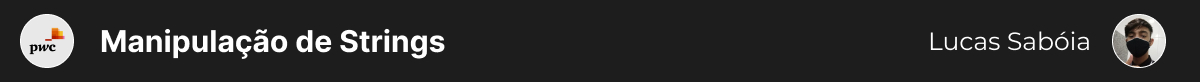
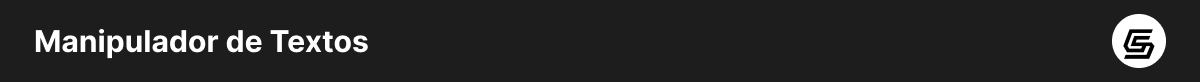
(feat): adicionado novo design para a página home/navbar e redirecionamento para versão web

Changed region(s): [[0.0, 0.1707, 0.37, 0.8293], [0.7708, 0.1707, 0.9867, 0.8293]]

diff --git a/ManipulaStringPWC/Formularios/frmHome.Designer.cs b/ManipulaStringPWC/Formularios/frmHome.Designer.cs
@@ -30,8 +30,10 @@
         {
             pictureBox1 = new PictureBox();
             pictureBox2 = new PictureBox();
+            pictureBox3 = new PictureBox();
             ((System.ComponentModel.ISupportInitialize)pictureBox1).BeginInit();
             ((System.ComponentModel.ISupportInitialize)pictureBox2).BeginInit();
+            ((System.ComponentModel.ISupportInitialize)pictureBox3).BeginInit();
             SuspendLayout();
             // 
             // pictureBox1
@@ -54,11 +56,22 @@
             pictureBox2.TabIndex = 1;
             pictureBox2.TabStop = false;
             // 
+            // pictureBox3
+            // 
+            pictureBox3.Image = Properties.Resources.web;
+            pictureBox3.Location = new Point(529, 301);
+            pictureBox3.Name = "pictureBox3";
+            pictureBox3.Size = new Size(52, 28);
+            pictureBox3.TabIndex = 2;
+            pictureBox3.TabStop = false;
+            pictureBox3.Click += pictureBox3_Click;
+            // 
             // frmHome
             // 
             AutoScaleDimensions = new SizeF(7F, 15F);
             AutoScaleMode = AutoScaleMode.Font;
             ClientSize = new Size(1224, 369);
+            Controls.Add(pictureBox3);
             Controls.Add(pictureBox2);
             Controls.Add(pictureBox1);
             FormBorderStyle = FormBorderStyle.None;
@@ -66,6 +79,7 @@
             Text = "frmHome";
             ((System.ComponentModel.ISupportInitialize)pictureBox1).EndInit();
             ((System.ComponentModel.ISupportInitialize)pictureBox2).EndInit();
+            ((System.ComponentModel.ISupportInitialize)pictureBox3).EndInit();
             ResumeLayout(false);
         }
 
@@ -73,5 +87,6 @@
 
         private PictureBox pictureBox1;
         private PictureBox pictureBox2;
+        private PictureBox pictureBox3;
     }
 }

diff --git a/ManipulaStringPWC/Formularios/frmHome.cs b/ManipulaStringPWC/Formularios/frmHome.cs
@@ -1,10 +1,23 @@
-namespace ManipulaStringPWC.Formularios
+using System.Diagnostics;
+
+namespace ManipulaStringPWC.Formularios
 {
     public partial class frmHome : Form
     {
         public frmHome()
         {
             InitializeComponent();
+        }
+
+        private void pictureBox3_Click(object sender, EventArgs e)
+        {
+            string urlDestino = "https://github.com/lucassaboia/ManipulaStringPWC";
+            ProcessStartInfo link = new()
+            {
+                FileName = urlDestino,
+                UseShellExecute = true
+            };
+            Process.Start(link);
         }
     }
 }

diff --git a/ManipulaStringPWC/Properties/Resources.Designer.cs b/ManipulaStringPWC/Properties/Resources.Designer.cs
@@ -329,5 +329,15 @@ namespace ManipulaStringPWC.Properties {
                 return ((System.Drawing.Bitmap)(obj));
             }
         }
+        
+        /// <summary>
+        ///   Looks up a localized resource of type System.Drawing.Bitmap.
+        /// </summary>
+        internal static System.Drawing.Bitmap web {
+            get {
+                object obj = ResourceManager.GetObject("web", resourceCulture);
+                return ((System.Drawing.Bitmap)(obj));
+            }
+        }
     }
 }
